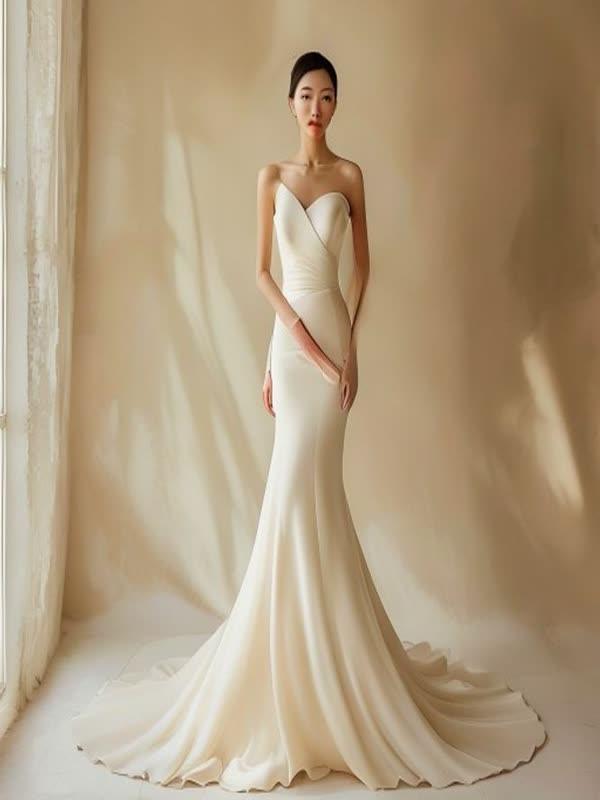
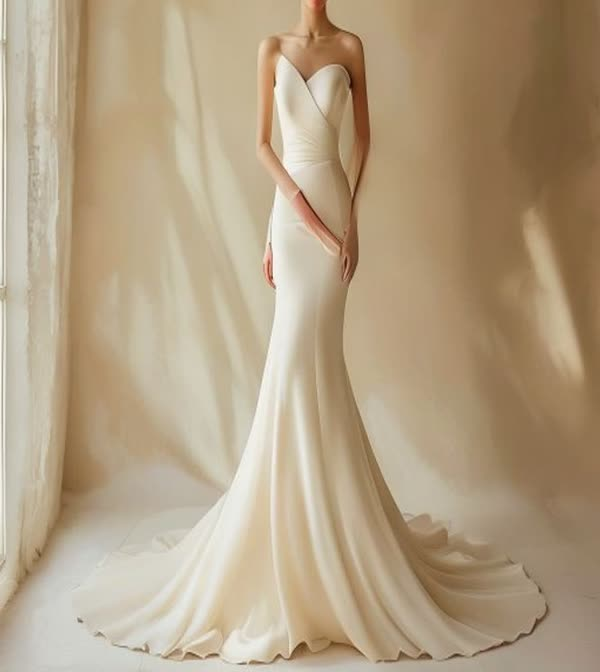
easyplanbook: worldcup cards neck-down crop (remove AI face artifacts) + card ratio

diff --git a/easyplanbook/worldcup.html b/easyplanbook/worldcup.html
@@ -25,8 +25,8 @@
   .card:active{transform:scale(.97)}
   .card:hover{border-color:var(--ink);box-shadow:0 10px 26px rgba(43,39,36,.1)}
   .card svg{width:100%;height:auto;display:block}
-  .card .cimg{width:100%;aspect-ratio:3/4;background-position:center top;background-size:cover;border-radius:10px;background-color:#EDE6D8}
-  .winimg{width:170px;aspect-ratio:3/4;background-position:center top;background-size:cover;border-radius:12px;margin:0 auto 14px}
+  .card .cimg{width:100%;aspect-ratio:43/50;background-position:center top;background-size:cover;border-radius:10px;background-color:#EDE6D8}
+  .winimg{width:190px;aspect-ratio:43/50;background-position:center top;background-size:cover;border-radius:12px;margin:0 auto 14px}
   .card b{display:block;font-size:13.5px;font-weight:800;margin-top:8px}
   .card span{display:block;font-size:10.5px;color:var(--sub);margin-top:2px}
   .prog{height:4px;background:#EDE6D8;border-radius:99px;margin:22px auto 0;max-width:280px;overflow:hidden}
